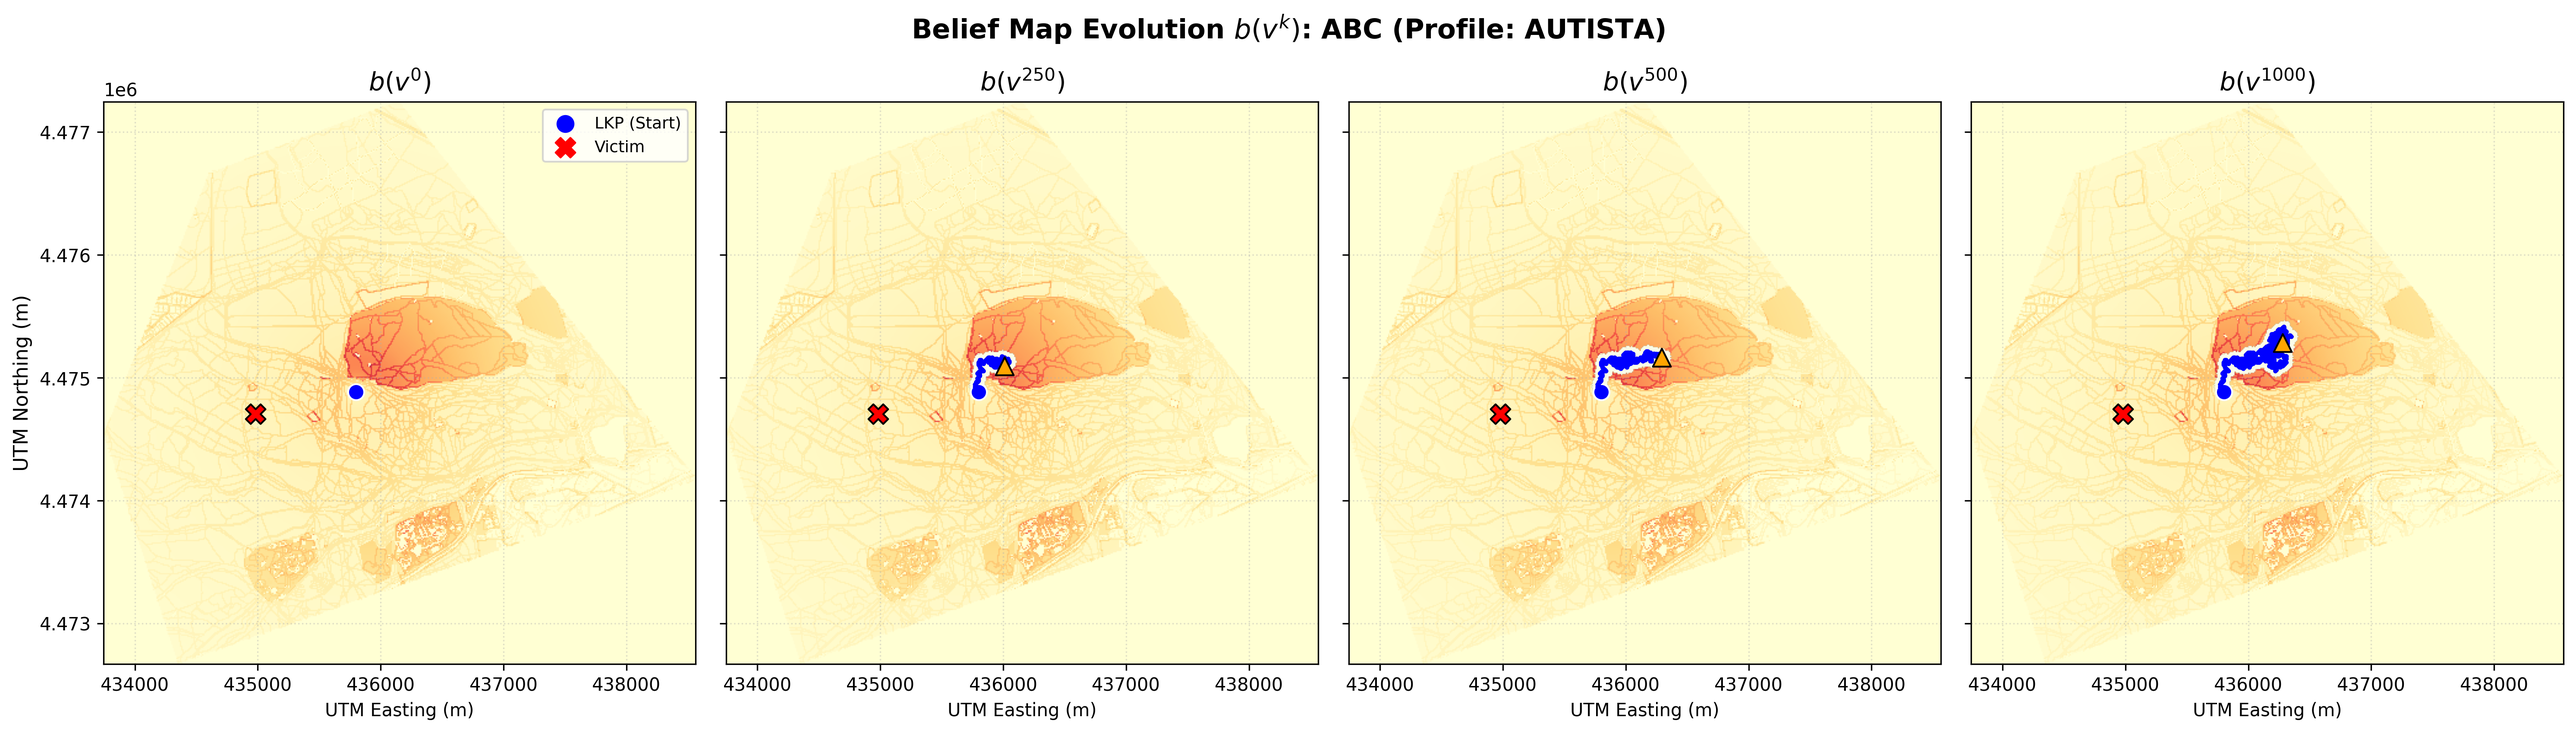
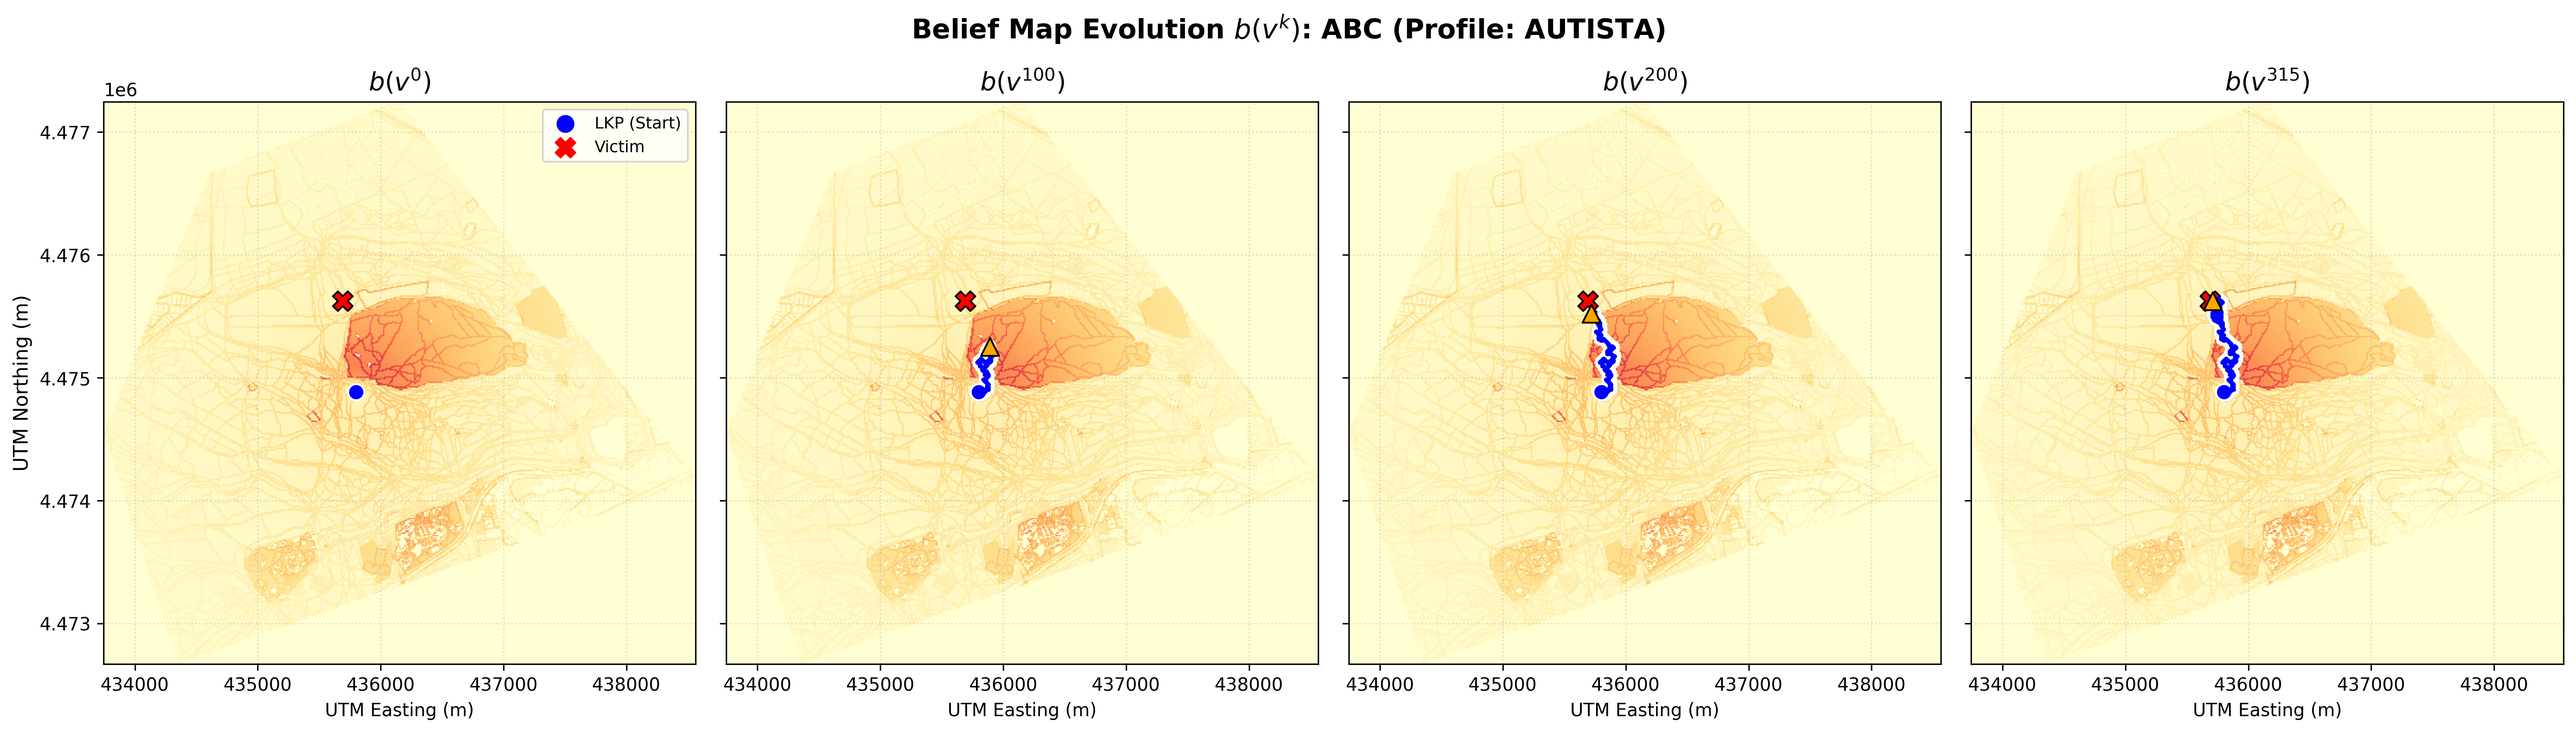
memoria: ampliar analisis temporal b(vk) para todos los perfiles y documentar muestreo de semillas

diff --git a/memoria/chapters/6-AnalisisDeResultados.tex b/memoria/chapters/6-AnalisisDeResultados.tex
@@ -85,18 +85,77 @@ El perfil de Senderista presenta una distribución fuertemente lineal orientada 
 
 En este escenario, el algoritmo Voraz Heurístico alcanza un acierto del $13.01\%$. Este comportamiento se debe a la topología continua de los caminos peatonales: al existir una traza lineal ininterrumpida de alta probabilidad, la búsqueda voraz sigue el sendero de forma natural sin caer en mínimos locales. Sin embargo, en terrenos complejos discontinuos (como Demencia), Voraz se bloquea prematuramente, mientras que BHA y ABC mantienen una estabilidad robusta en todos los perfiles.
 
-\section{Evolución Temporal de la Búsqueda y Mitigación de la Miopía}
+\section{Análisis de la Dinámica Espaciotemporal y Evolución del Mapa de Creencias}
+\label{sec:evolucion_temporal}
 
-La Figura~\ref{fig:evolucion_temporal} muestra la evolución secuencial del mapa de creencias residual $b(v^k)$ a lo largo de los instantes $t = 0, 100, 300, 500$ pasos de vuelo bajo la Colonia de Abejas (ABC).
+Más allá de los agregados estadísticos consolidados en las tablas anteriores, resulta indispensable comprender la física del rastreo aéreo y la interacción dinámica entre el Filtro Recursivo Bayesiano y las heurísticas de búsqueda. A continuación, se examina la evolución cronológica del mapa de creencias residual $b(v^k)$ en intervalos de tiempo representativos ($t = 0, 100, 300, 500$ pasos de avance) para los tres perfiles conductuales y las estrategias bioinspiradas y voraces. En cada panel se visualiza el punto de inicio de la misión (cuadrado negro en el LKP), la posición de la víctima muestreada informativamente (estrella roja), la estela de vuelo descrita por el dron (trazo azul) y la posición instantánea de la aeronave (marcador circular cian).
+
+\subsection{Dinámica Espaciotemporal en el Perfil de Demencia: Mitigación de la Miopía y Captura de Atractores}
+
+El perfil de Demencia impone una prueba de estrés singular: la víctima se localiza con una probabilidad superior al $50\%$ dentro del primer kilómetro en torno al LKP, oculta principalmente bajo densas masas arbóreas o matorrales. Si un algoritmo carece de memoria espacial o cae en mínimos locales, tenderá a sobrevolar repetidamente la misma mancha boscosa inicial o a quedar atrapado en el primer foco de alta densidad.
+
+La Figura~\ref{fig:evolucion_demencia_abc} ilustra la respuesta de la Colonia de Abejas (ABC) ante la Semilla~14 de Montecarlo.
 
 \begin{figure}[H]
 	\ffigbox[\FBwidth]
-	{\caption{EVOLUCIÓN TEMPORAL DEL MAPA DE CREENCIAS RESIDUAL $b(v^k)$ EN EL PERFIL DEMENCIA (ABC)}}
-	{\label{fig:evolucion_temporal}
+	{\caption{EVOLUCIÓN TEMPORAL DEL MAPA DE CREENCIAS RESIDUAL $b(v^k)$ EN EL PERFIL DEMENCIA BAJO COLONIA DE ABEJAS (ABC, SEMILLA 14)}}
+	{\label{fig:evolucion_demencia_abc}
 	\includegraphics[width=0.95\textwidth]{imagenes/evolucion_temporal_demencia_abc.png}}
 \end{figure}
 
-El Filtro Recursivo Bayesiano absorbe dinámicamente la masa de probabilidad bajo la huella del sensor de 50 metros. A medida que las abejas obreras agotan la probabilidad de un rodal boscoso, el mecanismo de abandono (\textit{limit}) activa a las abejas exploradoras, forzando al dron a reorientar su trayectoria hacia zonas inexploradas y mitigando por completo el problema de la miopía local que afecta a los algoritmos voraces.
+En el instante inicial ($t=0$), el mapa $b(v^0)$ presenta un núcleo isotrópico decreciente centrado en el LKP, donde se sitúa la víctima en una de las celdas boscosas a escasa distancia. A $t=100$, el dron ya ha penetrado en el corazón de la masa forestal, abriendo una zanja de probabilidad residual nula correspondiente a la huella cenital de $R_{\text{sensor}} = 50\text{ m}$. Hacia $t=300$, el algoritmo no insiste en recorrer el espacio ya limpiado: el agotamiento bayesiano degrada la aptitud (\textit{fitness}) de esas fuentes de alimento, impulsando a las abejas observadoras a reclutar obreras hacia los gradientes periféricos. Esta alternancia culmina en el instante $t=389$, donde la trayectoria del UAV intercepta directamente a la persona extraviada a una distancia mínima de $28.3\text{ metros}$ (inferior al radio de detección visual), neutralizando la incertidumbre del sector antes de que las abejas exploradoras expandan el radio de búsqueda hacia $t=500$.
+
+Por su parte, la Figura~\ref{fig:evolucion_demencia_bha} detalla el comportamiento del Algoritmo del Agujero Negro (BHA) sobre el mismo escenario de Demencia (Semilla~14).
+
+\begin{figure}[H]
+	\ffigbox[\FBwidth]
+	{\caption{EVOLUCIÓN TEMPORAL DEL MAPA DE CREENCIAS RESIDUAL $b(v^k)$ EN EL PERFIL DEMENCIA BAJO AGUJERO NEGRO (BHA, SEMILLA 14)}}
+	{\label{fig:evolucion_demencia_bha}
+	\includegraphics[width=0.95\textwidth]{imagenes/evolucion_temporal_demencia_bha.png}}
+\end{figure}
+
+El BHA exhibe una convergencia inicial significativamente más agresiva que el ABC. Al asignar al mejor candidato el papel de centro gravitatorio (\textit{black hole}), todas las soluciones estrella son atraídas rápidamente hacia el núcleo de mayor concentración probabilística. Esta aceleración permite al dron localizar e interceptar a la víctima de forma más temprana, alcanzando una aproximación de tan solo $20.2\text{ metros}$ en el paso $t=243$. Una vez que el dron absorbe la probabilidad central y el atractivo del agujero negro decae, las estrellas que cruzan el horizonte de sucesos son reemitidas estocásticamente a lo largo del dominio, generando una transición natural hacia un régimen exploratorio expansivo visible a $t=500$.
+
+\subsection{Dinámica Espaciotemporal en el Perfil Autista: Evasión Activa de Obstáculos y Búsqueda en Corredores}
+
+El perfil de personas en el espectro autista presenta una morfología espacial discontinua: aunque la literatura forense constata una atracción notable hacia elementos acuáticos y estructuras antrópicas, el módulo de restricciones físicas duras del framework anula por completo ($P=0.0$) el interior de láminas de agua (como el Lago de la Casa de Campo) y las geometrías de edificios cerrados para evitar colisiones o trayectorias inviables. En consecuencia, la masa de probabilidad se dispersa en racimos (\textit{clusters}) irregulares a lo largo de linderos, claros y márgenes transitables.
+
+La Figura~\ref{fig:evolucion_autista_abc} ilustra el rastreo ejecutado por la Colonia de Abejas (ABC) para la Semilla~44.
+
+\begin{figure}[H]
+	\ffigbox[\FBwidth]
+	{\caption{EVOLUCIÓN TEMPORAL DEL MAPA DE CREENCIAS RESIDUAL $b(v^k)$ EN EL PERFIL AUTISTA BAJO COLONIA DE ABEJAS (ABC, SEMILLA 44)}}
+	{\label{fig:evolucion_autista_abc}
+	\includegraphics[width=0.95\textwidth]{imagenes/evolucion_temporal_autista_abc.png}}
+\end{figure}
+
+En la secuencia temporal se observa con claridad cómo las zonas vedadas permanecen como regiones oscuras de nula probabilidad durante toda la misión. El dron no desperdicia batería sobrevolando las aguas del lago; en su lugar, el gradiente bayesiano guía al enjambre hacia los parches boscosos adyacentes. A $t=100$, el UAV ya ha seleccionado el corredor con mayor acumulación de probabilidad periférica. La navegación adaptativa sortea las barreras físicas y consigue cerrar la aproximación a la víctima en el paso $t=315$, registrando una distancia crítica de apenas $20.5\text{ metros}$. En los instantes subsiguientes ($t=500$), el mapa de creencias evidencia una depresión casi total en el clúster objetivo, demostrando la alta selectividad espacial del método sin incurrir en maniobras de alto riesgo en zonas restringidas.
+
+\subsection{Dinámica Espaciotemporal en el Perfil Senderista: Rastreo de Topologías Lineales y Análisis Crítico de la Búsqueda Voraz}
+
+El perfil de Senderista constituye el escenario más polarizado del benchmark debido a su topología predominantemente unidimensional. Las personas extraviadas en esta categoría tienden a seguir la red de caminos, pistas forestales y sendas señalizadas de la Casa de Campo. 
+
+La Figura~\ref{fig:evolucion_senderista_abc} expone el desempeño de la Colonia de Abejas (ABC) en este entorno para la Semilla~39.
+
+\begin{figure}[H]
+	\ffigbox[\FBwidth]
+	{\caption{EVOLUCIÓN TEMPORAL DEL MAPA DE CREENCIAS RESIDUAL $b(v^k)$ EN EL PERFIL SENDERISTA BAJO COLONIA DE ABEJAS (ABC, SEMILLA 39)}}
+	{\label{fig:evolucion_senderista_abc}
+	\includegraphics[width=0.95\textwidth]{imagenes/evolucion_temporal_senderista_abc.png}}
+\end{figure}
+
+Al encontrarse la probabilidad canalizada en filamentos estrechos, el ABC debe coordinar a sus agentes para no perder la traza del sendero. En la Semilla~39, la persona extraviada se encuentra en una bifurcación de caminos. Entre $t=100$ y $t=300$, el enjambre despliega patrullas a lo largo del eje troncal, explorando las ramas secundarias a medida que el filtro bayesiano extingue el tramo principal. La intercepción exitosa se produce en el paso $t=445$ a una distancia de $22.4\text{ metros}$, dejando a $t=500$ un canal continuo de probabilidad consumida que coincide con el trazado topográfico de OpenStreetMap.
+
+Finalmente, la Figura~\ref{fig:evolucion_senderista_voraz} muestra la evolución bajo el planificador Voraz Heurístico para la Semilla~14, permitiendo contrastar la naturaleza de ambas aproximaciones.
+
+\begin{figure}[H]
+	\ffigbox[\FBwidth]
+	{\caption{EVOLUCIÓN TEMPORAL DEL MAPA DE CREENCIAS RESIDUAL $b(v^k)$ EN EL PERFIL SENDERISTA BAJO VORAZ HEURÍSTICO (SEMILLA 14)}}
+	{\label{fig:evolucion_senderista_voraz}
+	\includegraphics[width=0.95\textwidth]{imagenes/evolucion_temporal_senderista_voraz.png}}
+\end{figure}
+
+En redes lineales continuas, el algoritmo Voraz opera de forma análoga a un seguidor de líneas por gradiente ascendente: en cada paso escoge el avance que maximiza la absorción local instantánea de probabilidad. Cuando la víctima se encuentra situada a lo largo del sendero inicial (como en la Semilla~14), Voraz se desplaza con una celeridad implacable, alcanzando a la víctima en el paso $t=341$ a $20.3\text{ metros}$ de distancia. Sin embargo, la inspección minuciosa del mapa residual a $t=500$ revela la grave deficiencia estructural del método voraz: la aeronave consume un surco extremadamente angosto y, al llegar al término del camino o toparse con un claro desprovisto de probabilidad, se bloquea por completo o realiza giros erráticos, incapaz de cruzar zonas vacías para saltar a senderos paralelos. Este fenómeno explica por qué el Voraz Heurístico lidera la tasa de acierto en el perfil de Senderista ($13.01\%$), donde los senderos forman autovías de probabilidad continua, pero fracasa rotundamente en terrenos complejos y fragmentados como Demencia ($5.41\%$) o Autista ($4.89\%$), donde la visión global y la capacidad de escape de los algoritmos bioinspirados (ABC y BHA) resultan indispensables.
 
 \section{Comparativa Global: Bioinspirados vs. Baselines Clásicos}
 

diff --git a/memoria/chapters/5-ProcesoDeExperimentacion.tex b/memoria/chapters/5-ProcesoDeExperimentacion.tex
@@ -133,6 +133,22 @@ Las variables operativas del UAV se mantuvieron constantes en todas las simulaci
     \end{itemize}
 \end{itemize}
 
+\subsection{Muestreo Probabilístico Informado de Víctimas (Generación de Semillas)}
+
+Un aspecto metodológico fundamental del diseño experimental radica en el procedimiento de ubicación de las personas extraviadas para cada una de las 50 misiones independientes por perfil. En lugar de posicionar a la víctima mediante una distribución espacial uniforme y arbitraria sobre la totalidad del lienzo cartográfico, el framework ejecuta una \textit{colocación aleatoria informada} guiada directamente por la matriz de probabilidad a priori $b(v^0)$ obtenida en el Módulo~2.
+
+Formalmente, sea $b(v^0)(i, j)$ el mapa de creencias normalizado ($\sum_{i,j} b(v^0)(i,j) = 1.0$) tras la aplicación del filtro de restricciones físicas duras. Para cada semilla estocástica $s \in \{1, \dots, 50\}$, las coordenadas discretas de la víctima $\mathbf{p}_{\text{víctima}}^{(s)} = (x_{\text{goal}}, y_{\text{goal}})$ se obtienen mediante un muestreo estocástico categórico ponderado:
+\begin{equation}
+    P\Big(\mathbf{p}_{\text{víctima}}^{(s)} = (i, j)\Big) = b(v^0)(i, j)
+\end{equation}
+
+Este esquema de generación informada asegura tres propiedades operativas indispensables para la validez de los resultados:
+\begin{enumerate}
+    \item \textbf{Fidelidad al Manual LPB:} El $95\%$ de las víctimas simuladas quedan confinadas dentro de los radios cuartiles empíricos documentados por Robert Koester para cada tipología conductual (por ejemplo, con una fuerte concentración en el primer kilómetro para sujetos con demencia, o dispersiones más amplias a lo largo de senderos para excursionistas).
+    \item \textbf{Afinidad Semántica del Terreno:} La probabilidad de aparición sobre cada elemento geográfico de OpenStreetMap respeta estrictamente las ponderaciones estadísticas $\alpha_k$ del perfil (concentrándose en senderos peatonales para senderistas o en formaciones de pinar para demencia).
+    \item \textbf{Consistencia de Transitabilidad Física:} Al haber anulado estrictamente a cero ($P=0.0$) las geometrías de exclusión (lagos profundos y edificaciones cerradas), la probabilidad de que una víctima se ubique en zonas físicas inaccesibles o dentro del agua es idénticamente nula.
+\end{enumerate}
+
 \section{Formulación Matemática de las Métricas SAR Unificadas (\texttt{PathEvaluatorTFM})}
 
 Todas las trayectorias resultantes se evalúan cuantitativamente a través de las cinco métricas estandarizadas del módulo \texttt{PathEvaluatorTFM}:
